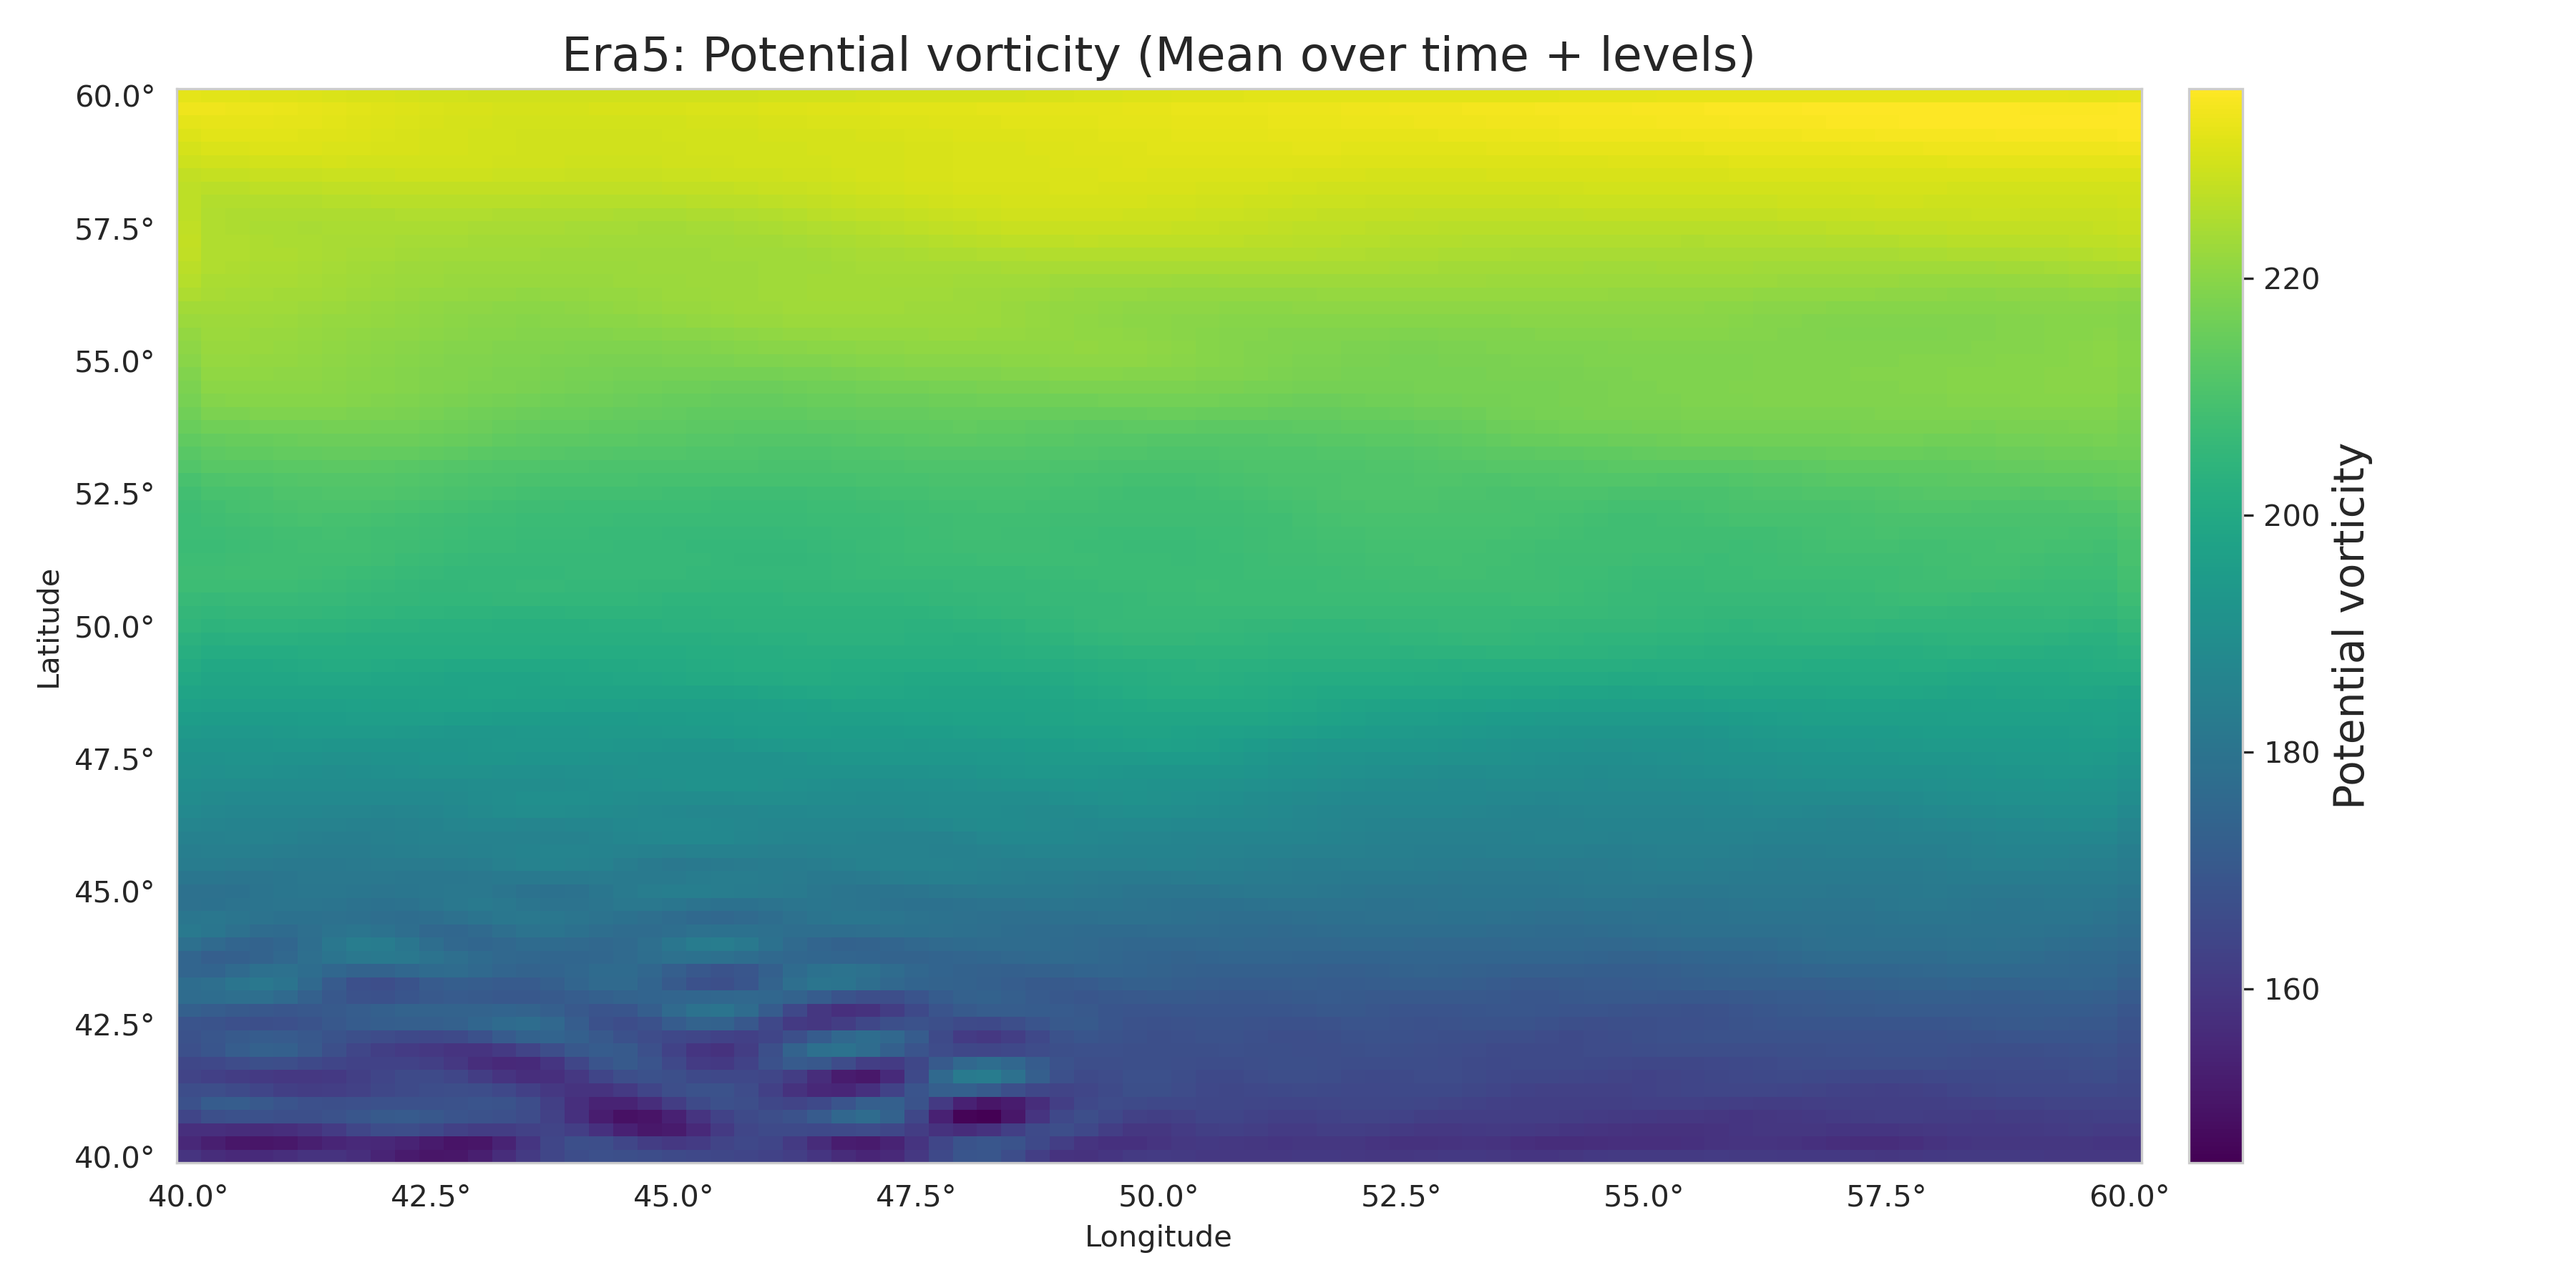
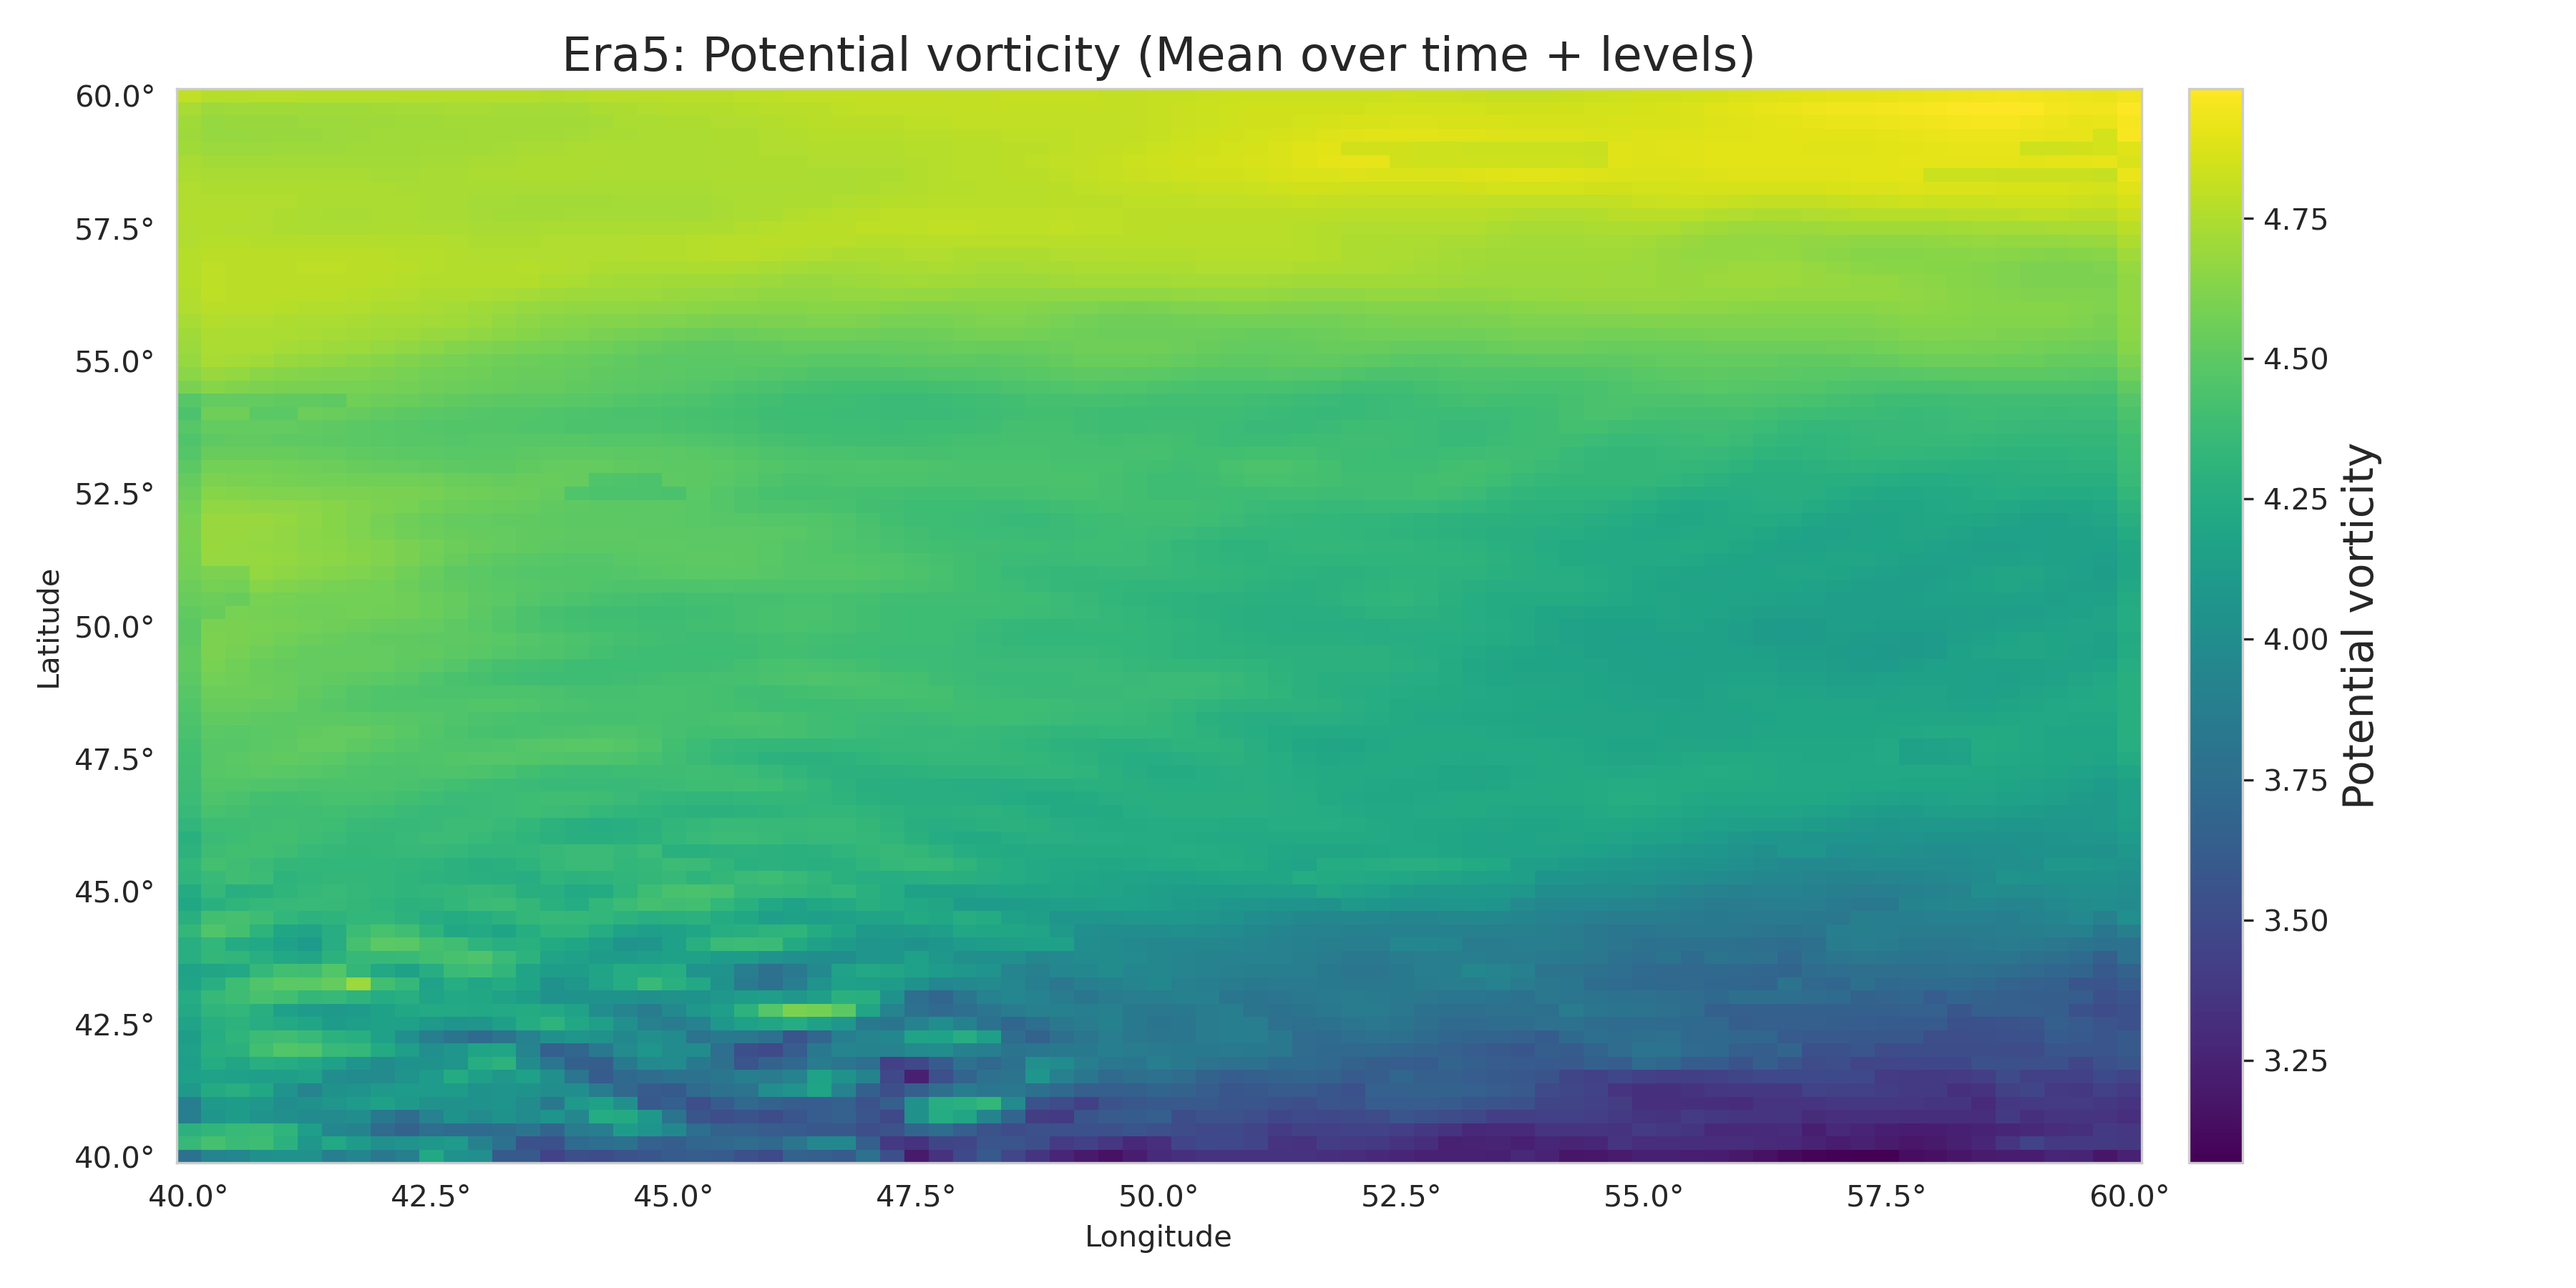
update visualizations, add metric bounds

diff --git a/pace/utils/plot_utils/vertical_profile.py b/pace/utils/plot_utils/vertical_profile.py
@@ -31,10 +31,10 @@ PROFILE_CONFIG = {
         "max": {"xmin": 0, "xmax": 120, "scale": "linear"},
     },
     "potential_vorticity": {
-        "mean": {"xmin": 1e-1, "xmax": 1e1, "scale": "log"},
-        "stdev": {"xmin": 1e-1, "xmax": 1e1, "scale": "log"},
-        "max": {"xmin": 1e-1, "xmax": 1e3, "scale": "log"},
-        "min": {"xmin": 1e-4, "xmax": 1e1, "scale": "log"},
+        "mean": {"xmin": -5, "xmax": 20, "scale": "linear"},
+        "stdev": {"xmin": -5, "xmax": 20, "scale": "linear"},
+        "max": {"xmin": -5, "xmax": 20, "scale": "linear"},
+        "min": {"xmin": -5, "xmax": 20, "scale": "linear"},
     },
     # Add more variables here with per-stat configs as needed
 }
@@ -208,8 +208,20 @@ def plot_profiles(
             palette = sns.color_palette("tab10", n_colors=len(leadtimes))
 
             for i, lt in enumerate(leadtimes):
+                prof = data_model[i]
+
+                cfg = PROFILE_CONFIG.get(var_name, {}).get(stat, {})
+                xmin, xmax = cfg.get("xmin", None), cfg.get("xmax", None)
+
+                # Mask values outside allowed range
+                mask = ~np.isnan(prof)
+                if xmin is not None:
+                    mask &= prof >= xmin
+                if xmax is not None:
+                    mask &= prof <= xmax
+
                 plt.plot(
-                    data_model[i], pressure_levels,
+                    prof[mask], pressure_levels[mask],
                     label=f"{model_name}: Lt {lt}",
                     color=palette[i % len(palette)],
                     linewidth=1.8,
@@ -217,16 +229,18 @@ def plot_profiles(
 
             if results_ref and var_name in results_ref and stat in results_ref[var_name]:
                 data_ref = results_ref[var_name][stat]
-                if data_ref.shape[0] == n_levels:
-                    plt.plot(
-                        data_ref, pressure_levels,
-                        label=f"{ref_name}",
-                        color='black',
-                        linewidth=2.5,
-                        linestyle='--',
-                    )
-                else:
-                    print(f"Reference data shape mismatch for {var_name} {stat}: {data_ref.shape} vs {n_levels}")
+                mask_ref = ~np.isnan(data_ref)
+                if xmin is not None:
+                    mask_ref &= data_ref >= xmin
+                if xmax is not None:
+                    mask_ref &= data_ref <= xmax
+                plt.plot(
+                    data_ref[mask_ref], pressure_levels[mask_ref],
+                    label=f"{ref_name}",
+                    color="black",
+                    linewidth=2.5,
+                    linestyle="--",
+                )
 
             ax = plt.gca()
             ax.invert_yaxis()

diff --git a/pace/utils/plot_utils/spatial_slice.py b/pace/utils/plot_utils/spatial_slice.py
@@ -3,6 +3,7 @@ import numpy as np
 import matplotlib.pyplot as plt
 import matplotlib.colors as colors
 import xarray as xr
+import pandas as pd
 
 
 def plot_spatial_slice(
@@ -66,8 +67,22 @@ def plot_spatial_slice(
 
     for i in idxs:
         slice_data = da_level.sel(idx=i).values  # shape (lat, lon)
-        base_time = coords["base_time"][int(i)] if "base_time" in coords else None
-        lead_time = coords["lead_time"][int(i)] if "lead_time" in coords else None
+
+        base_time = da_level.sel(idx=i)["base_time"].values
+        lead_time = da_level.sel(idx=i)["lead_time"].values
+
+        # Convert safely
+        if base_time is not None:
+            base_time = pd.to_datetime(base_time).to_pydatetime()
+            base_time_str = base_time.strftime("%Y-%m-%d %H:%M")
+        else:
+            base_time_str = "N/A"
+
+        if lead_time is not None:
+            lead_time = pd.to_timedelta(lead_time).to_pytimedelta()
+            lead_hours = int(lead_time.total_seconds() // 3600)
+        else:
+            lead_hours = -1
 
         fig, ax = plt.subplots(figsize=(12, 6))
         pcm = ax.pcolormesh(
@@ -75,21 +90,10 @@ def plot_spatial_slice(
             Lat,
             slice_data,
             cmap="viridis",
-            norm=colors.LogNorm(vmin=1e-3, vmax=np.nanmax(slice_data)),
+            norm=colors.LogNorm(vmin=np.nanmin(slice_data), vmax=np.nanmax(slice_data)),
         )
         cbar = fig.colorbar(pcm, ax=ax, pad=0.02)
         cbar.set_label(variable.replace("_", " ").capitalize(), fontsize=14)
-
-        # Format title
-        if base_time is not None:
-            base_time_str = np.datetime_as_string(base_time, unit="m")
-        else:
-            base_time_str = "N/A"
-
-        if lead_time is not None:
-            lead_hours =  lead_time.astype('timedelta64[h]').astype(int)
-        else:
-            lead_hours = -1
 
         ax.set_title(
             f"{dataset_name.capitalize()}: {variable.replace('_', ' ').capitalize()} | "
@@ -107,10 +111,18 @@ def plot_spatial_slice(
         ax.set_yticklabels(add_degree_symbols(ax.get_yticks()))
 
         plt.tight_layout()
+        # Compute valid time
+        if base_time is not None and lead_time is not None:
+            valid_time = base_time + lead_time
+            valid_str = valid_time.strftime("%Y%m%d_%H%M")
+        else:
+            valid_str = "NA"
+
+        # Use valid time in filename
         filename = (
-            f"{dataset_name}_{variable}_level{int(selected_level)}_"
-            f"lead{lead_hours}h.png"
+            f"{dataset_name}_{variable}_level{int(selected_level)}_valid{valid_str}.png"
         )
+
         path = os.path.join(out_dir, filename)
         plt.savefig(path, dpi=300)
         plt.close()

diff --git a/pace/metrics/geostrophic.py b/pace/metrics/geostrophic.py
@@ -102,7 +102,7 @@ class GeostrophicWind(nn.Module):
         )[..., 1:-1, 1:-1] / self.dy
 
         # Geostrophic balance equations
-        u_g = - dphi_dy / self.f
+        u_g = dphi_dy / self.f
         v_g = dphi_dx / self.f
 
         # Apply latitude mask: only valid in midlatitudes (30°–80° N/S)
@@ -141,6 +141,8 @@ class GeostrophicWind(nn.Module):
         kernel = self.smoothing_kernel.repeat(ratio.shape[-3], 1, 1, 1).to(ratio.dtype)
         ratio = F.pad(ratio, self.pad, "replicate")
         ratio = F.conv2d(ratio, kernel, groups=ratio.shape[-3], padding=0)
+
+        ratio = ratio.masked_fill((ratio < 0) | (ratio > 2), torch.nan)  # physically bound values
 
         return ratio
 

diff --git a/pace/metrics/potential_vorticity.py b/pace/metrics/potential_vorticity.py
@@ -134,6 +134,8 @@ class PotentialVorticity(nn.Module):
         pv_pvu[:, 0] = float('nan')
         pv_pvu[:, -1] = float('nan')
 
+        pv_pvu =  pv_pvu.masked_fill((pv_pvu < -20) | (pv_pvu > 50), torch.nan)  # physical bounds
+
         return pv_pvu
 
     def output_keys(self):
